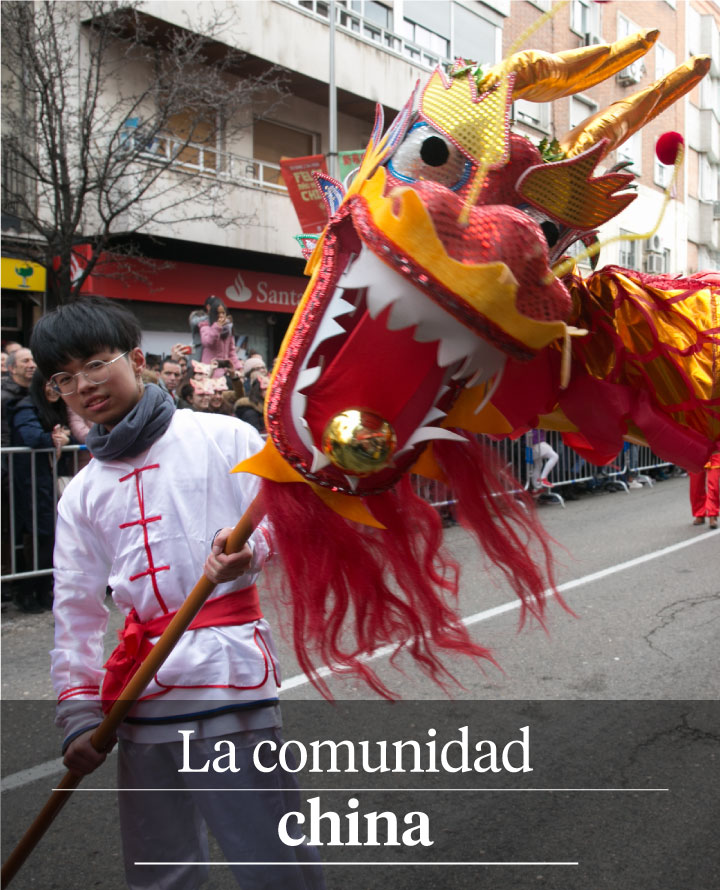
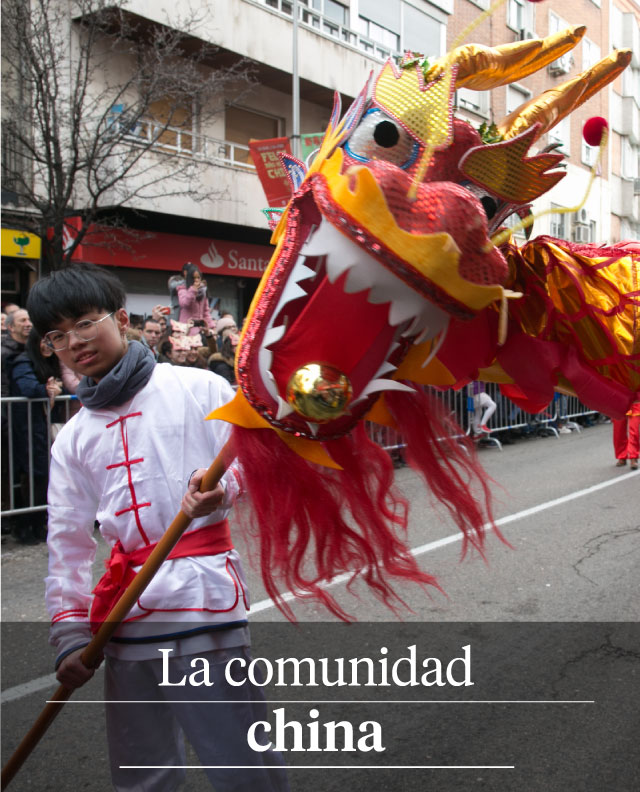
Add files via upload

diff --git a/IntroChinaMovil/Separadores.html b/IntroChinaMovil/Separadores.html
@@ -1,5 +1,5 @@
 
-<!-- Generated by ai2html v0.100.0 - 2020-12-04 21:46 -->
+<!-- Generated by ai2html v0.100.0 - 2020-12-05 01:24 -->
 <!-- ai file: Separadores.ai -->
 <style media="screen,print">
 	#g-Separadores-box ,
@@ -33,11 +33,11 @@
 <div id="g-Separadores-box" class="ai2html">
 
 	<!-- Artboard: IntroChinaMovil -->
-	<div id="g-Separadores-IntroChinaMovil" class="g-artboard" style="max-width: 360px;max-height: 445px" data-aspect-ratio="0.808" data-min-width="0">
-<div style="padding: 0 0 123.7495% 0;"></div>
+	<div id="g-Separadores-IntroChinaMovil" class="g-artboard" style="max-width: 320px;max-height: 396px" data-aspect-ratio="0.807" data-min-width="0">
+<div style="padding: 0 0 123.8889% 0;"></div>
 		<img id="g-Separadores-IntroChinaMovil-img" class="g-aiImg" alt="" src="Separadores-IntroChinaMovil.jpg"/>
 	</div>
 
 </div>
 
-<!-- End ai2html - 2020-12-04 21:46 -->
+<!-- End ai2html - 2020-12-05 01:24 -->
